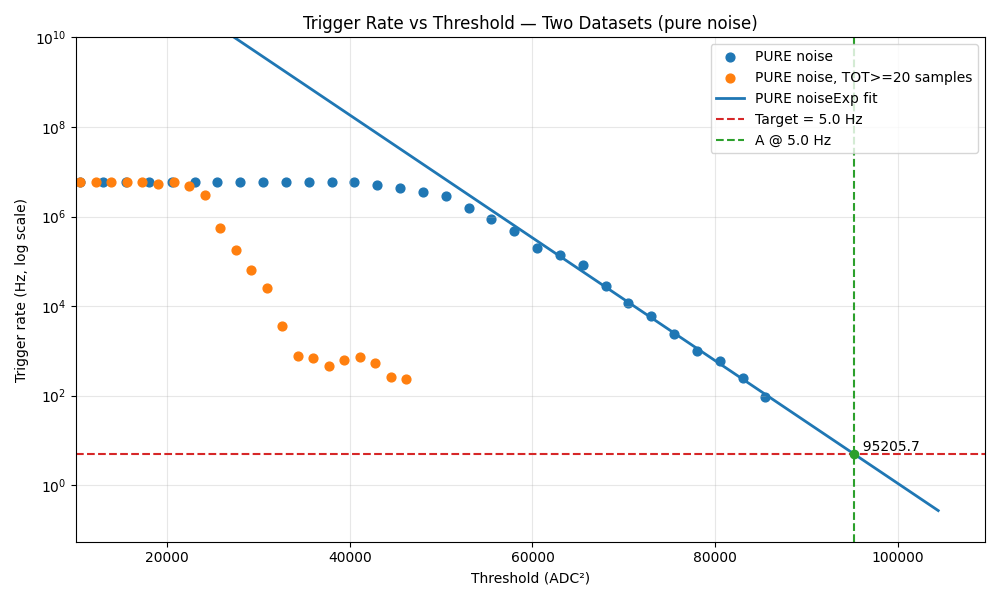
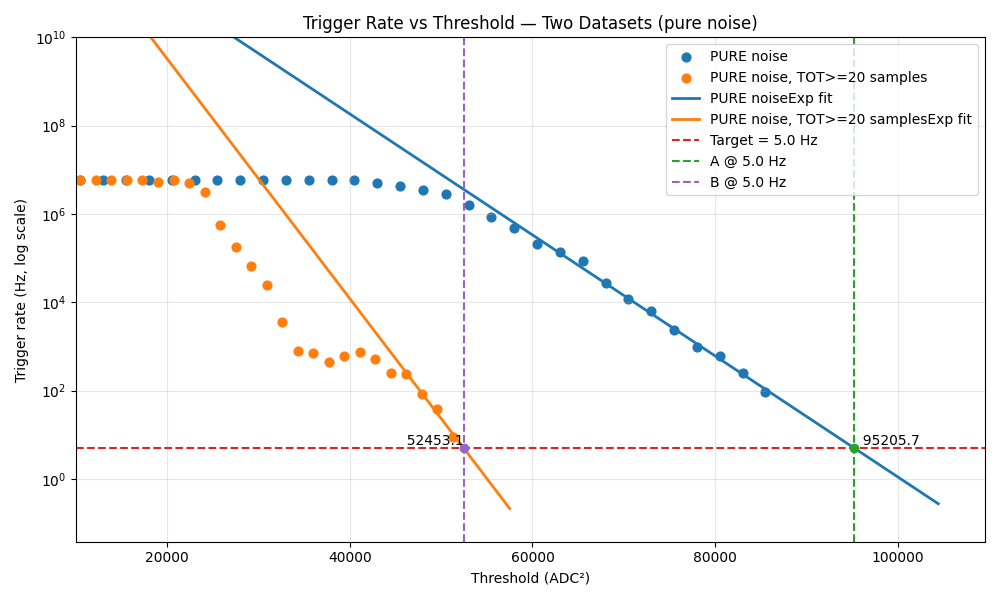
Full threshold scan analyzer

diff --git a/ARA_event_based_simulation/Full_threshold_TOT_scan.py b/ARA_event_based_simulation/Full_threshold_TOT_scan.py
@@ -1,0 +1,165 @@
+import numpy as np
+import matplotlib.pyplot as plt
+import pandas as pd
+import os
+import sys
+import math
+import time
+import random
+import json
+from pathlib import Path
+from scipy.optimize import curve_fit
+from sim_functions import *
+from trig_functions import *
+
+# ─────────────────────────────────────────────────────────────────────────────
+# Parameters
+# ─────────────────────────────────────────────────────────────────────────────
+SAMPLING_RATE_GHZ         = 3.2      # GHz
+TIME_STEP_NS              = 1.0 / SAMPLING_RATE_GHZ
+NOISE_RMS_ADC             = 100      # ADC (amplitude rms for noise generator)
+MAX_SIGNAL_ADC            = 4095     
+WINDOW_SIZE_MHZ           = 5.88e6   # MHz
+N_WINDOWS                 = 1
+SIM_DURATION_NS           = N_WINDOWS / WINDOW_SIZE_MHZ * 1e9  # ns
+SIM_DURATION_SAMPLES      = int(SIM_DURATION_NS / TIME_STEP_NS)
+N_CHANNELS                = 8
+N_REQ_COINC               = 3        # channels required for a trigger
+SCAN_TIME_LIMIT_SEC       = 60 #3600*2   # 2 hours per TOT elimination setting
+START_THRESHOLD           = 10000    # in POWER units (ADC^2)
+THRESHOLD_STEP            = 1500      # increment per completed threshold
+TRIGGERS_PER_THRESHOLD    = 10       # stop each threshold at n triggers
+starting_MIN_ALLOWED_TOT  = 3        # in samples (ns / TIME_STEP_NS), minimum TOT to consider a trigger valid
+ending_MIN_ALLOWED_TOT    = 13       # in samples (ns / TIME_STEP_NS
+# Impulse-response JSON path
+impulse_response_path = Path("../RNOG_sim_copy/jsons/impulse_response_Freauency_35_240.json").resolve()
+
+# Output file
+OUT_JSON = Path("Full_threshold_scan_for_TOT_range.json")
+
+# ─────────────────────────────────────────────────────────────────────────────
+# Helper to save results incrementally
+# ─────────────────────────────────────────────────────────────────────────────
+def save_results(results_dict, out_path: Path):
+    out_path.write_text(json.dumps(results_dict, indent=2))
+
+# ─────────────────────────────────────────────────────────────────────────────
+# Main scan
+# ─────────────────────────────────────────────────────────────────────────────
+def run_scan(min_tot: int, results_dict: dict):
+    t_start = time.time()
+    threshold = START_THRESHOLD
+    thresholds_completed = 0
+
+    results_for_this_tot = []
+
+    try:
+        while True:
+            if time.time() - t_start >= SCAN_TIME_LIMIT_SEC:
+                print(f"\nTime limit (2 hours) reached for TOT={min_tot}. Moving on.")
+                break
+
+            num_triggers = 0
+            num_events_scanned = 0
+            tot_samples = []
+
+            THRESHOLD_V = [threshold] * N_CHANNELS
+
+            print(f"\n=== TOT {min_tot}, Threshold {threshold} (power units) ===")
+
+            while num_triggers < TRIGGERS_PER_THRESHOLD:
+                if time.time() - t_start >= SCAN_TIME_LIMIT_SEC:
+                    print(f"\nTime limit reached mid-threshold for TOT={min_tot}.")
+                    break
+
+                channel_signals = []
+                for ch in range(N_CHANNELS):
+                    t_axis, noise = make_band_limited_noise_digitized(
+                        json_path=impulse_response_path,
+                        channel_key="ch2_2x_amp",
+                        window_ns=SIM_DURATION_NS,
+                        adc_rate_ghz=SAMPLING_RATE_GHZ,
+                        target_rms_mV=NOISE_RMS_ADC, 
+                        max_signal=MAX_SIGNAL_ADC,
+                    )
+                    channel_signals.append(noise)
+
+                triggers = find_ARA_env_triggers(
+                    channel_signals,
+                    t_axis,
+                    threshold=THRESHOLD_V,
+                    n_channels_required=N_REQ_COINC
+                )
+
+                num_events_scanned += 1
+
+                if triggers:
+                    tot, n_ch_trig = TOT_finder(
+                        channel_signals,
+                        t_axis,
+                        threshold=THRESHOLD_V,
+                        n_channels_required=N_REQ_COINC
+                    )
+                    if tot > min_tot:
+                        tot_samples.append(int(tot))
+                        num_triggers += 1
+                        rate = num_triggers / num_events_scanned
+                        print(f"  Triggers: {num_triggers}/{TRIGGERS_PER_THRESHOLD} | "
+                              f"Events: {num_events_scanned} | "
+                              f"Rate: {rate:.4f}")
+
+            if num_triggers < TRIGGERS_PER_THRESHOLD:
+                # save partial data
+                record = {
+                    "threshold": int(threshold),
+                    "num_triggers": int(num_triggers),
+                    "num_events_scanned": int(num_events_scanned),
+                    "trigger_rate": float(num_triggers / num_events_scanned) if num_events_scanned else 0.0,
+                    "tot_samples": [int(x) for x in tot_samples],
+                }
+                results_for_this_tot.append(record)
+                break
+
+            record = {
+                "threshold": int(threshold),
+                "num_triggers": int(num_triggers),
+                "num_events_scanned": int(num_events_scanned),
+                "trigger_rate": float(num_triggers / num_events_scanned),
+                "tot_samples": [int(x) for x in tot_samples],
+            }
+            results_for_this_tot.append(record)
+            results_dict[str(min_tot)] = results_for_this_tot
+            save_results(results_dict, OUT_JSON)
+
+            thresholds_completed += 1
+            print(f"Completed threshold {threshold} for TOT={min_tot}: "
+                  f"{num_triggers}/{num_events_scanned} → rate={record['trigger_rate']:.6f}")
+
+            threshold += THRESHOLD_STEP
+
+    except KeyboardInterrupt:
+        print(f"\nInterrupted by user during TOT={min_tot}. Saving partial results…")
+    finally:
+        results_dict[str(min_tot)] = results_for_this_tot
+        save_results(results_dict, OUT_JSON)
+        elapsed = time.time() - t_start
+        print(f"\nScan finished for TOT={min_tot}. "
+              f"Thresholds completed: {thresholds_completed}. "
+              f"Elapsed: {elapsed:.2f} s. Results in '{OUT_JSON.name}'.")
+
+# ─────────────────────────────────────────────────────────────────────────────
+# Driver
+# ─────────────────────────────────────────────────────────────────────────────
+def main():
+    results_dict = {}
+    if OUT_JSON.exists():
+        try:
+            results_dict = json.loads(OUT_JSON.read_text())
+        except Exception:
+            results_dict = {}
+
+    for min_tot in range(starting_MIN_ALLOWED_TOT, ending_MIN_ALLOWED_TOT + 1):
+        run_scan(min_tot, results_dict)
+
+if __name__ == "__main__":
+    main()

diff --git a/ARA_event_based_simulation/Ara_and_active_TOT_trigger.py b/ARA_event_based_simulation/Ara_and_active_TOT_trigger.py
@@ -23,16 +23,16 @@ n_of_windows = 1
 SIMULATION_DURATION_NS= n_of_windows/(WINDOW_SIZE) *1e9 #ns
 SIMULATION_DURATION_SAMPLES = int(SIMULATION_DURATION_NS / TIME_STEP)  # Number of samples in the simulation duration
 N_of_channels = 8
-THRESHOLD_V= [91185]*N_of_channels  # ADC^2 counts
+THRESHOLD_V= [78761]*N_of_channels  # ADC^2 counts
 N_REQ = 3  # Number of channels required for a trigger
 COINC_NS = SIMULATION_DURATION_NS
 SCAN_RATE = 300 
-MIN_ALLOWED_TOT= 4 # in samples (ns / TIME_STEP_NS), minimum TOT to consider a trigger valid
+MIN_ALLOWED_TOT= 10 # in samples (ns / TIME_STEP_NS), minimum TOT to consider a trigger valid
 
 PULSE_AMPLITUDES = np.concatenate([
-    np.arange(10, 200, 10),   
+    np.arange(100, 200, 15),   
     np.arange(200, 400, 20),  
-    np.arange(400, 600, 50)   
+    np.arange(400, 600, 25)   
 ])  
 #PULSE_AMPLITUDES= np.arange(100, 600,10)
 
@@ -121,12 +121,12 @@ plt.plot(SNR_values, pass_fraction, marker='o', label='Pass Fraction vs SNR')
 plt.plot(SNR_values, pass_fraction_sigmoid, marker='x', linestyle='--', label='Sigmoid Fit')
 plt.axhline(y=0.5, color='r', linestyle='--', label='50% Pass Threshold')
 plt.axvline(x=b, color='g', linestyle='--', label='50% eff SNR at {:.2f}'.format(b))
-plt.title('Trigger_efficiency_scan_at_5Hz_target_threshold_w_TOT_trigger_eliminate_4tot_long.png')
+plt.title('Trigger_efficiency_scan_at_5Hz_target_threshold_w_TOT_trigger_eliminate_10tot_long.png')
 plt.xlabel('SNR')
 plt.ylabel('Pass Fraction')
 plt.grid()
 plt.legend()
-plt.savefig("Trigger_efficiency_scan_rate_5Hz_target_4TOT_trigger_tentative.png")
+plt.savefig("TESTNOW_10TOT.png")
 
 
 
@@ -137,7 +137,7 @@ plt.title('Time Over Threshold (TOT) vs SNR for Triggered Events_ 5Hz target thr
 plt.xlabel('SNR')
 plt.ylabel('Time Over Threshold (ns)')
 plt.grid()
-plt.savefig("TOT_scan_rate_5Hz_target_4TOT_trigger_tentative.png")
+#plt.savefig("TOT_scan_rate_5Hz_target_4TOT_trigger_tentative.png")
 
 """
 """

diff --git a/ARA_event_based_simulation/Threshold_scan_analysis_prediction_2_datasets.py b/ARA_event_based_simulation/Threshold_scan_analysis_prediction_2_datasets.py
@@ -18,7 +18,7 @@ TARGET_HZ = 5.0             # target trigger rate
 
 # You can use the same fit-start threshold for both, or set distinct ones:
 FIT_START_THRESHOLD_A = 60000
-FIT_START_THRESHOLD_B = 60000
+FIT_START_THRESHOLD_B = 45000
 
 OUT_PNG = Path("trigger_rate_hz_vs_threshold_fit_compare_20tot_long.png")
 # ------------------------------------------
